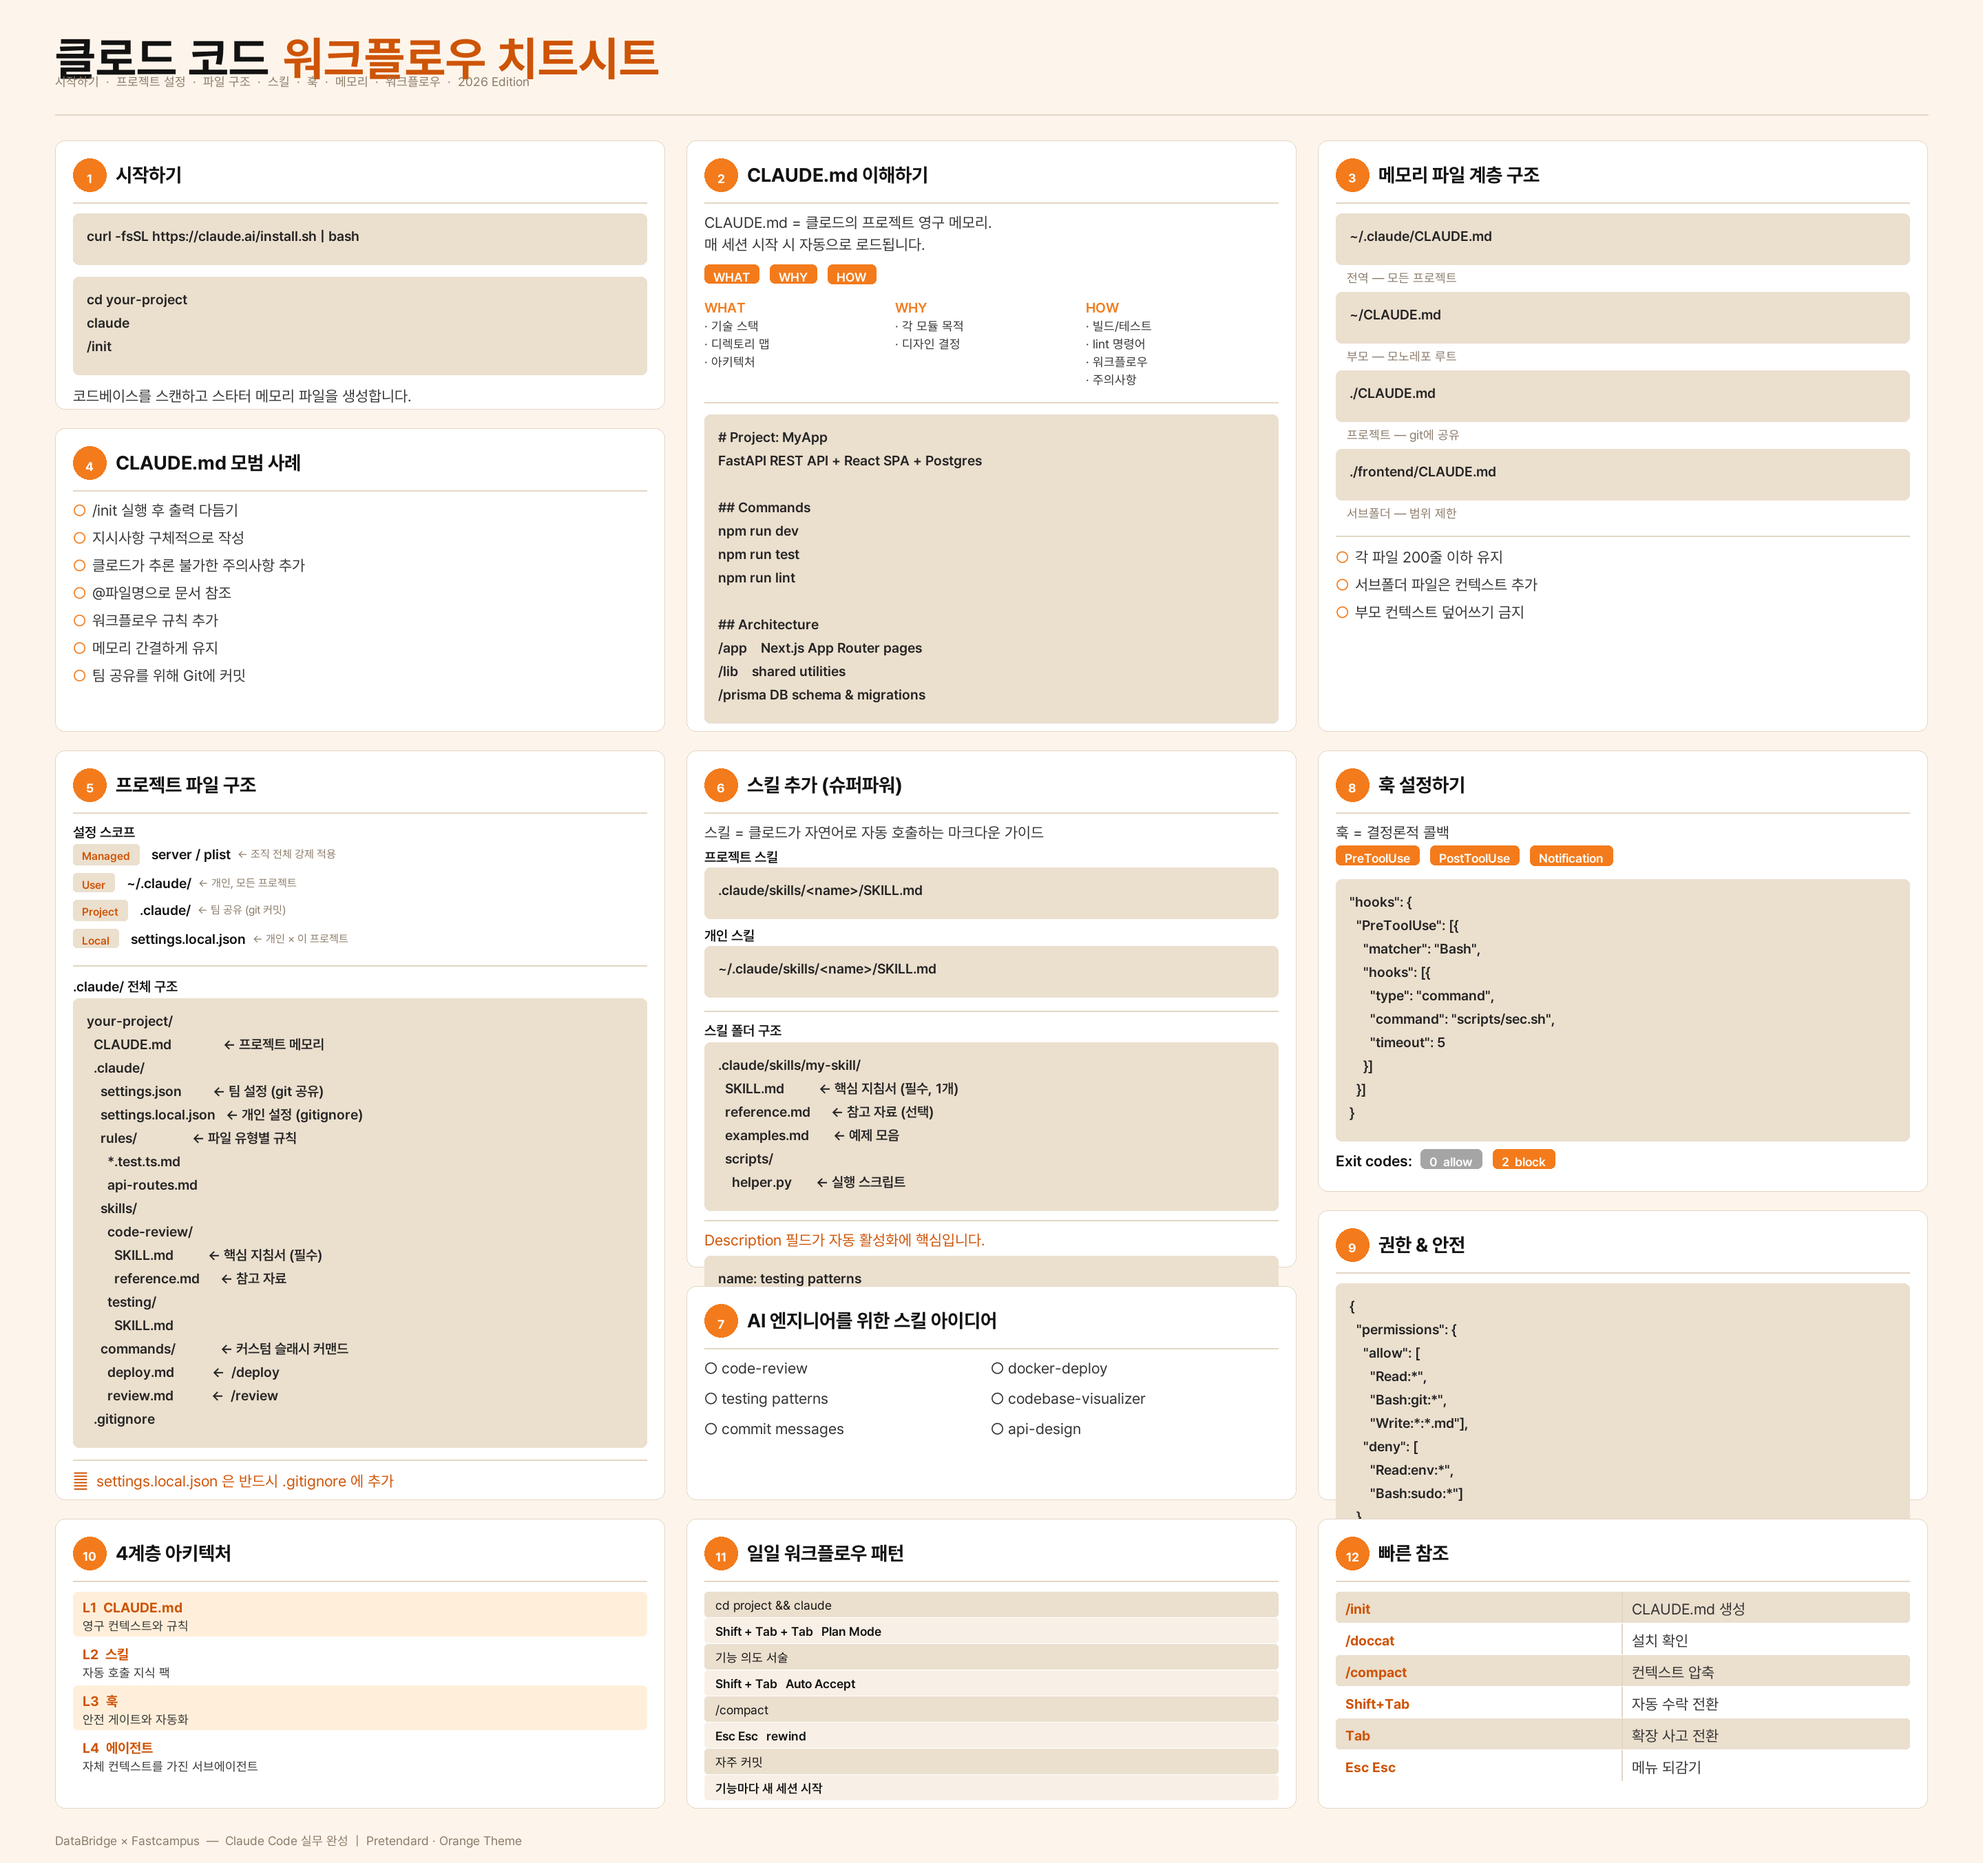
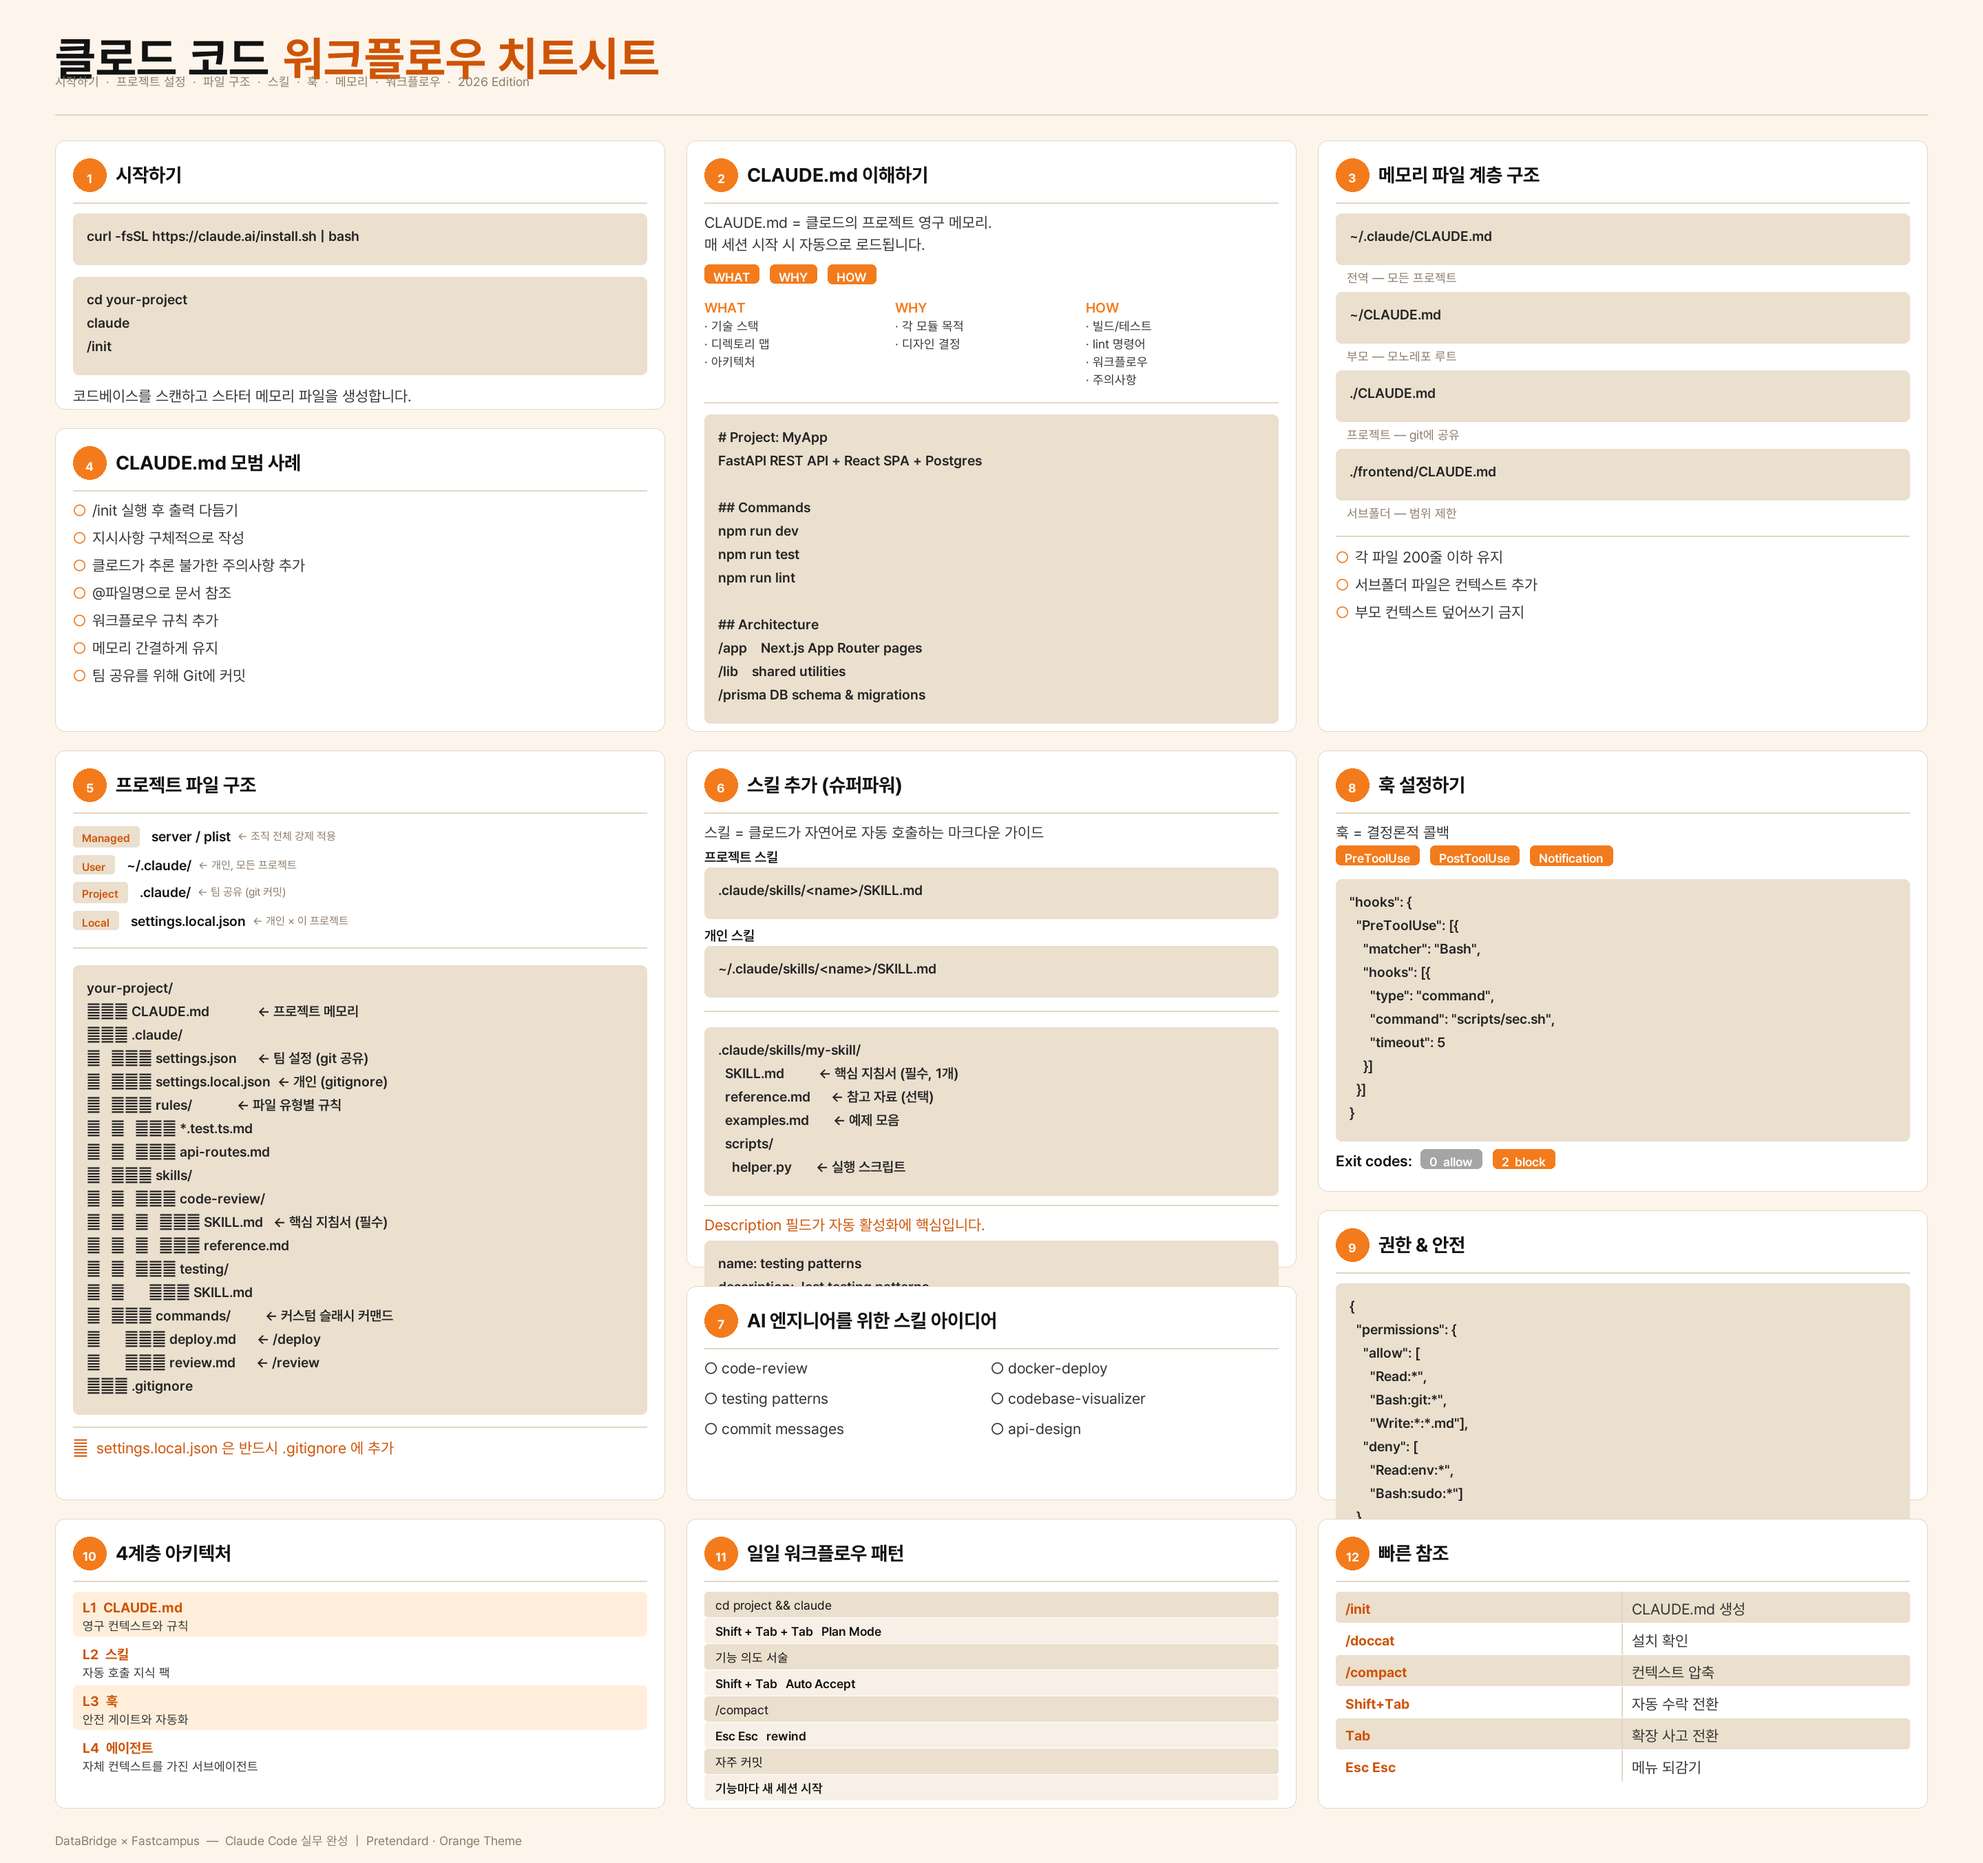
cheatsheet: 부제목 삭제 + 트리 구조 개선

Changed region(s): [[0.0312, 0.4346, 0.6562, 0.8071]]

diff --git a/scripts/cheatsheet.py b/scripts/cheatsheet.py
@@ -173,8 +173,10 @@ d   = ImageDraw.Draw(img)
 # 헤더
 # ════════════════════════════════════════════════════════════════
 tx = MARGIN; ty = 44
-w1 = text(d, tx, ty, "클로드 코드", HT, "b", BLACK)
-text(d, tx+w1+16, ty, "워크플로우 치트시트", HT, "b", OD)
+_f_ht = F(HT, "b")
+w1 = tw(d, "클로드 코드", _f_ht)
+text(d, tx, ty, "클로드 코드", HT, "b", BLACK)
+text(d, tx+w1+20, ty, "워크플로우 치트시트", HT, "b", OD)
 
 sy = ty + th(d,"A",F(HT,"b")) + 14
 text(d, tx, sy,
@@ -285,24 +287,50 @@ bullets(d, x3, cy3, [
 cy5, P5 = card(d, X1, R2Y, COL_W, H2, 5, "프로젝트 파일 구조")
 x5=X1+P5; w5=COL_W-P5*2
 
-code(d, x5, cy5, w5, [
+# 설정 스코프 4단계 라벨
+cy5+=4
+scope_data = [
+    ("Managed", "server / plist", "조직 전체 강제 적용"),
+    ("User",    "~/.claude/",     "개인, 모든 프로젝트"),
+    ("Project", ".claude/",       "팀 공유 (git 커밋)"),
+    ("Local",   "settings.local.json", "개인 × 이 프로젝트"),
+]
+for lbl, path, desc in scope_data:
+    lx = x5
+    pw, ph = pill(d, lx, cy5, lbl, sz=16, bg=CODE_BG, fg=OD, r=5)
+    lx += pw + 10
+    text(d, lx, cy5+2, path, CD, "sb", BLACK)
+    path_w = tw(d, path, F(CD, "sb"))
+    text(d, lx + path_w + 10, cy5+4, "← "+desc, 16, "r", DIM_C)
+    cy5 += ph + 8
+cy5 += 14
+rule(d, x5, cy5, w5); cy5 += 18
+
+# 터미널 트리
+cy5 += 8
+cy5 = code(d, x5, cy5, w5, [
     "your-project/",
-    "  CLAUDE.md",
-    "  .claude/",
-    "    settings.json",
-    "    settings.local.json",
-    "    skills/",
-    "      code-review/",
-    "        SKILL.md",
-    "      testing/",
-    "        SKILL.md",
-    "      helpers.py",
-    "  commands/",
-    "    deploy.md",
-    "  agents/",
-    "    security-reviewer.md",
-    "  .gitignore",
-])
+    "├── CLAUDE.md              ← 프로젝트 메모리",
+    "├── .claude/",
+    "│   ├── settings.json      ← 팀 설정 (git 공유)",
+    "│   ├── settings.local.json  ← 개인 (gitignore)",
+    "│   ├── rules/             ← 파일 유형별 규칙",
+    "│   │   ├── *.test.ts.md",
+    "│   │   └── api-routes.md",
+    "│   ├── skills/",
+    "│   │   ├── code-review/",
+    "│   │   │   ├── SKILL.md   ← 핵심 지침서 (필수)",
+    "│   │   │   └── reference.md",
+    "│   │   └── testing/",
+    "│   │       └── SKILL.md",
+    "│   └── commands/          ← 커스텀 슬래시 커맨드",
+    "│       ├── deploy.md      ← /deploy",
+    "│       └── review.md      ← /review",
+    "└── .gitignore",
+]) + 18
+
+rule(d, x5, cy5, w5); cy5 += 18
+text(d, x5, cy5, "⚑  settings.local.json 은 반드시 .gitignore 에 추가", BD, "r", OD)
 
 # ════════════════════════════════════════════════════════════════
 # ⑥ 스킬 추가
@@ -320,6 +348,19 @@ for lbl,path in [("프로젝트 스킬", ".claude/skills/<name>/SKILL.md"),
     cy6=code(d, x6, cy6, w6, [path])+12
 
 cy6+=8; rule(d, x6, cy6, w6); cy6+=16
+
+# 스킬 폴더 트리 추가
+cy6+=8
+cy6=code(d, x6, cy6, w6, [
+    ".claude/skills/my-skill/",
+    "  SKILL.md          ← 핵심 지침서 (필수, 1개)",
+    "  reference.md      ← 참고 자료 (선택)",
+    "  examples.md       ← 예제 모음",
+    "  scripts/",
+    "    helper.py       ← 실행 스크립트",
+])+14
+rule(d, x6, cy6, w6); cy6+=16
+
 text(d, x6, cy6,
      "Description 필드가 자동 활성화에 핵심입니다.",
      BD, "r", OD); cy6+=36
